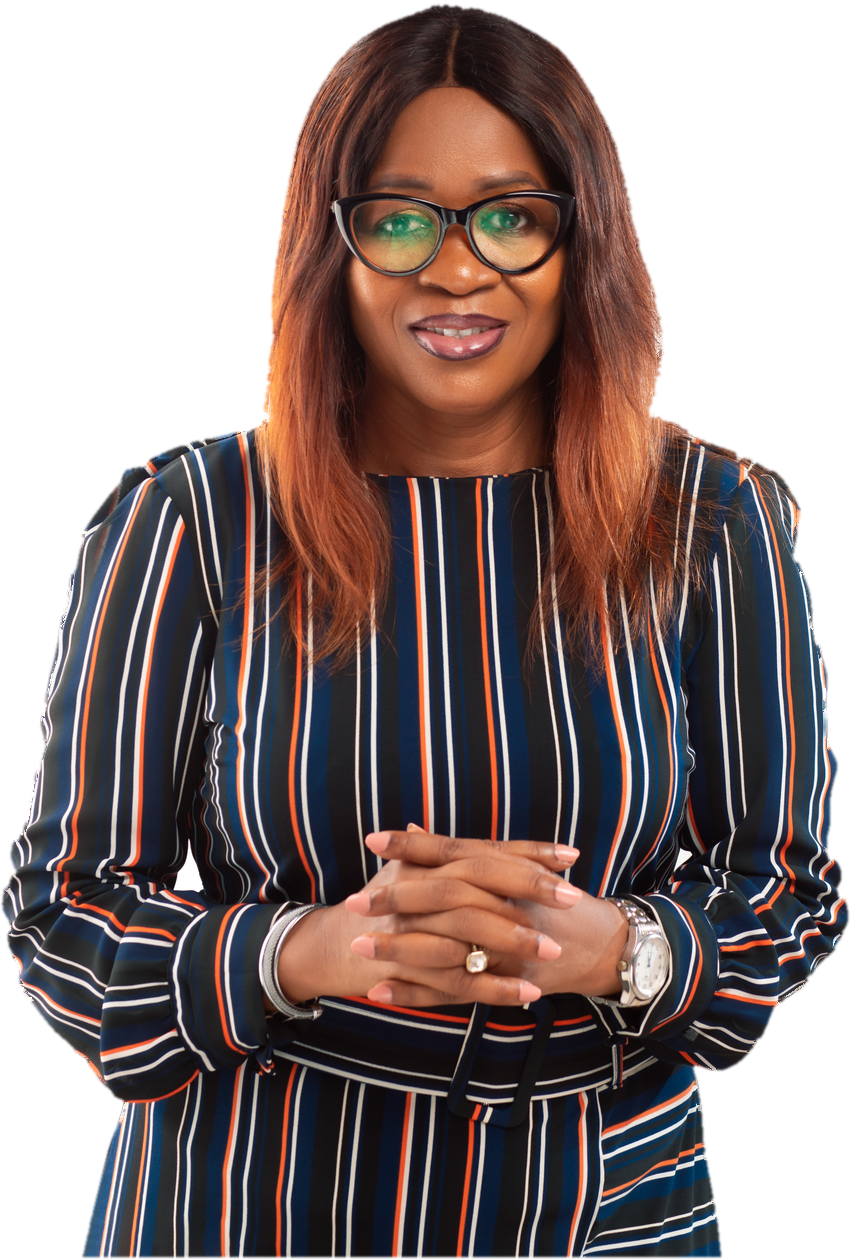
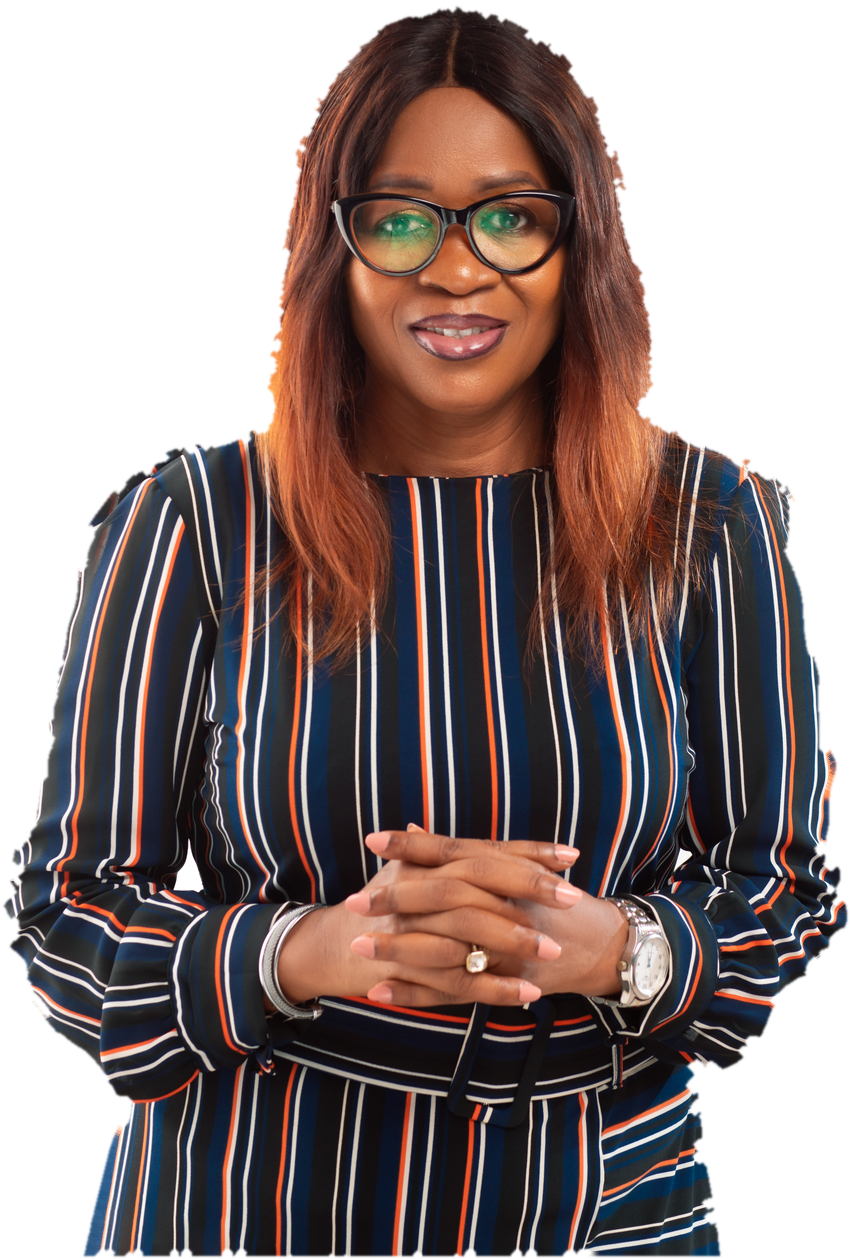
Affiche du vendredi : nettoyage renforcé du détourage (franges claires)
Claude-Session: https://claude.ai/code/session_01MwjzxB6vNBUzfK55D3M67f

diff --git a/zone242-com-session/livrables/scripts-sources/nettoyer_detourage.py b/zone242-com-session/livrables/scripts-sources/nettoyer_detourage.py
@@ -1,17 +1,27 @@
-# Supprime la frange claire d'un détourage : érode légèrement l'alpha et recolore les bords avec la couleur intérieure la plus proche.
+# Supprime les franges claires d'un détourage : retire les pixels de bord plus clairs que la matière voisine,
+# érode l'alpha, adoucit et recolore les bords avec la couleur intérieure la plus proche.
 # Usage : python nettoyer_detourage.py entree.png sortie.png [erosion_px]
 import sys, numpy as np
 from PIL import Image, ImageFilter
 from scipy import ndimage as ndi
-src, dst = sys.argv[1], sys.argv[2]; er = int(sys.argv[3]) if len(sys.argv) > 3 else 2
+src, dst = sys.argv[1], sys.argv[2]; er = int(sys.argv[3]) if len(sys.argv) > 3 else 3
 im = Image.open(src).convert("RGBA"); a = np.array(im).astype(float); alpha = a[..., 3] / 255
-core = ndi.binary_erosion(alpha > .94, iterations=er + 2)
-idx = ndi.distance_transform_edt(~core, return_distances=False, return_indices=True)
-rgb = a[..., :3][idx[0], idx[1]]
-band = (alpha < .999)                                  # bords : on prend la couleur de l'intérieur
-out_rgb = np.where(band[..., None], rgb, a[..., :3])
-al = ndi.binary_erosion(alpha > .5, iterations=er).astype(float)
-al = np.array(Image.fromarray((al * 255).astype("uint8")).filter(ImageFilter.GaussianBlur(1.1))).astype(float) / 255
-al = np.minimum(al, np.where(alpha > .02, 1, 0))
-res = np.dstack([out_rgb, al * 255]).clip(0, 255).astype("uint8")
+solid = alpha > .5
+core = ndi.binary_erosion(alpha > .94, iterations=er + 4)
+dist, idx = ndi.distance_transform_edt(~core, return_indices=True)
+inner = a[..., :3][idx[0], idx[1]]
+lum = lambda x: x @ np.array([.299, .587, .114])
+near_edge = (dist > 0) & (dist < 14)
+bright = lum(a[..., :3]) > lum(inner) + 28                    # plus clair que la matière voisine = résidu de fond
+whiteish = (a[..., :3].min(-1) > 190) & ((a[..., :3].max(-1) - a[..., :3].min(-1)) < 40)
+kill = near_edge & (bright | whiteish)
+kill = ndi.binary_dilation(kill, iterations=1) & near_edge
+alpha2 = np.where(kill, 0, alpha)
+m = ndi.binary_opening(alpha2 > .5, iterations=1)             # supprime les points isolés
+m = ndi.binary_erosion(m, iterations=er)
+# supprime les petits îlots
+lab, n = ndi.label(m); sizes = ndi.sum(m, lab, range(1, n + 1)); m = np.isin(lab, [i + 1 for i, sz in enumerate(sizes) if sz > 400])
+soft = np.array(Image.fromarray((m * 255).astype("uint8")).filter(ImageFilter.GaussianBlur(1.0))).astype(float) / 255
+rgb = np.where((dist > 0)[..., None], inner, a[..., :3])
+res = np.dstack([rgb, soft * 255]).clip(0, 255).astype("uint8")
 Image.fromarray(res, "RGBA").save(dst); print("ok", dst)
